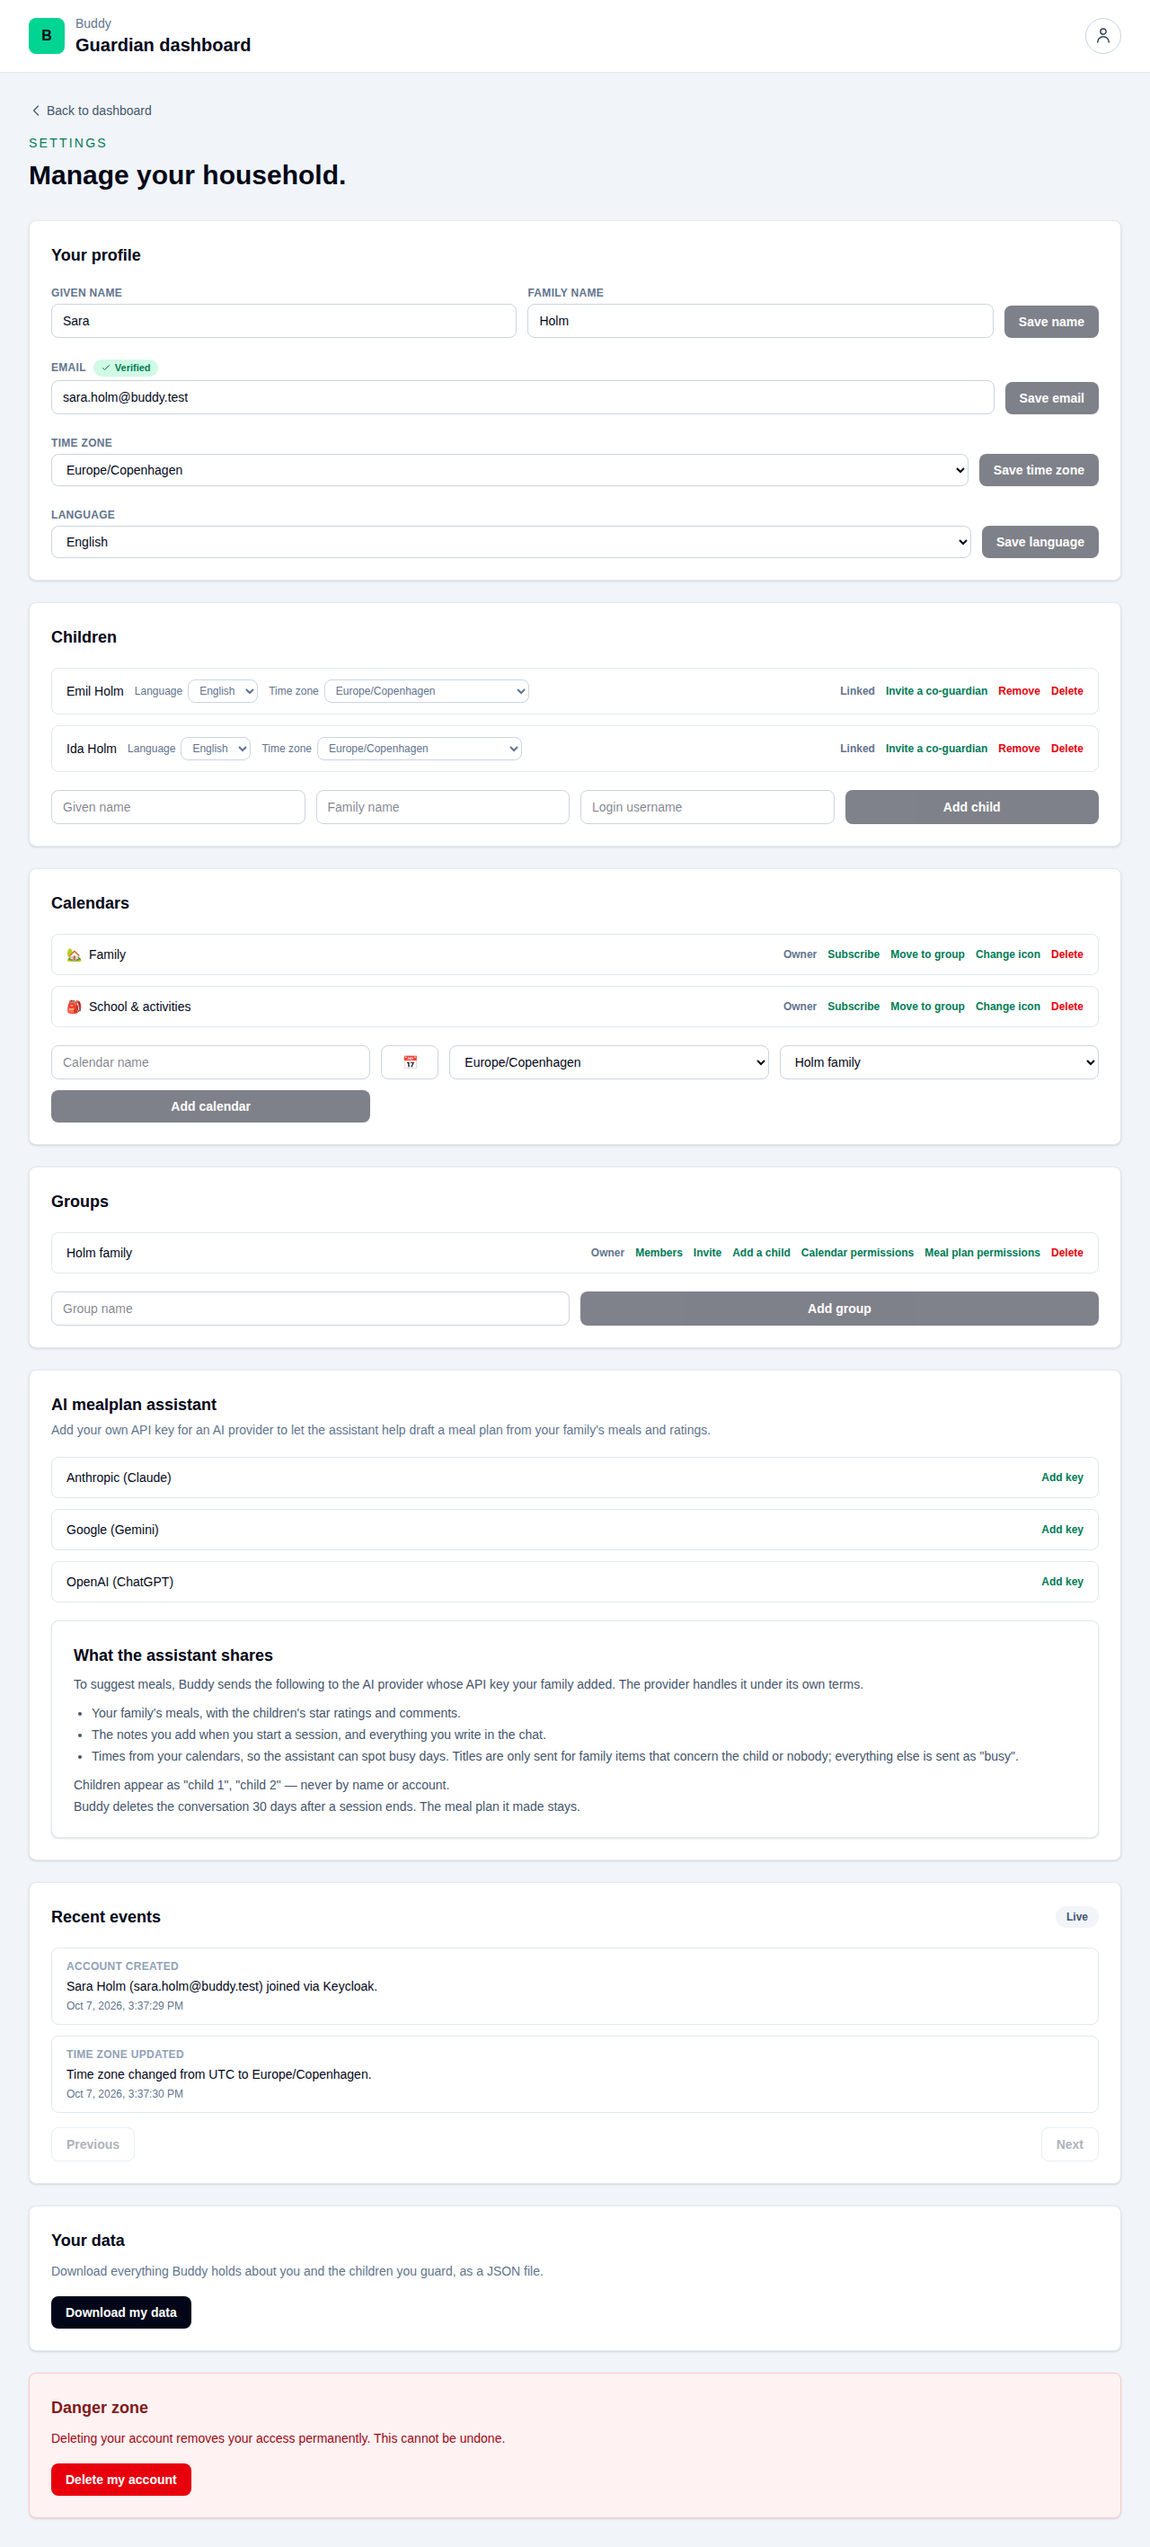
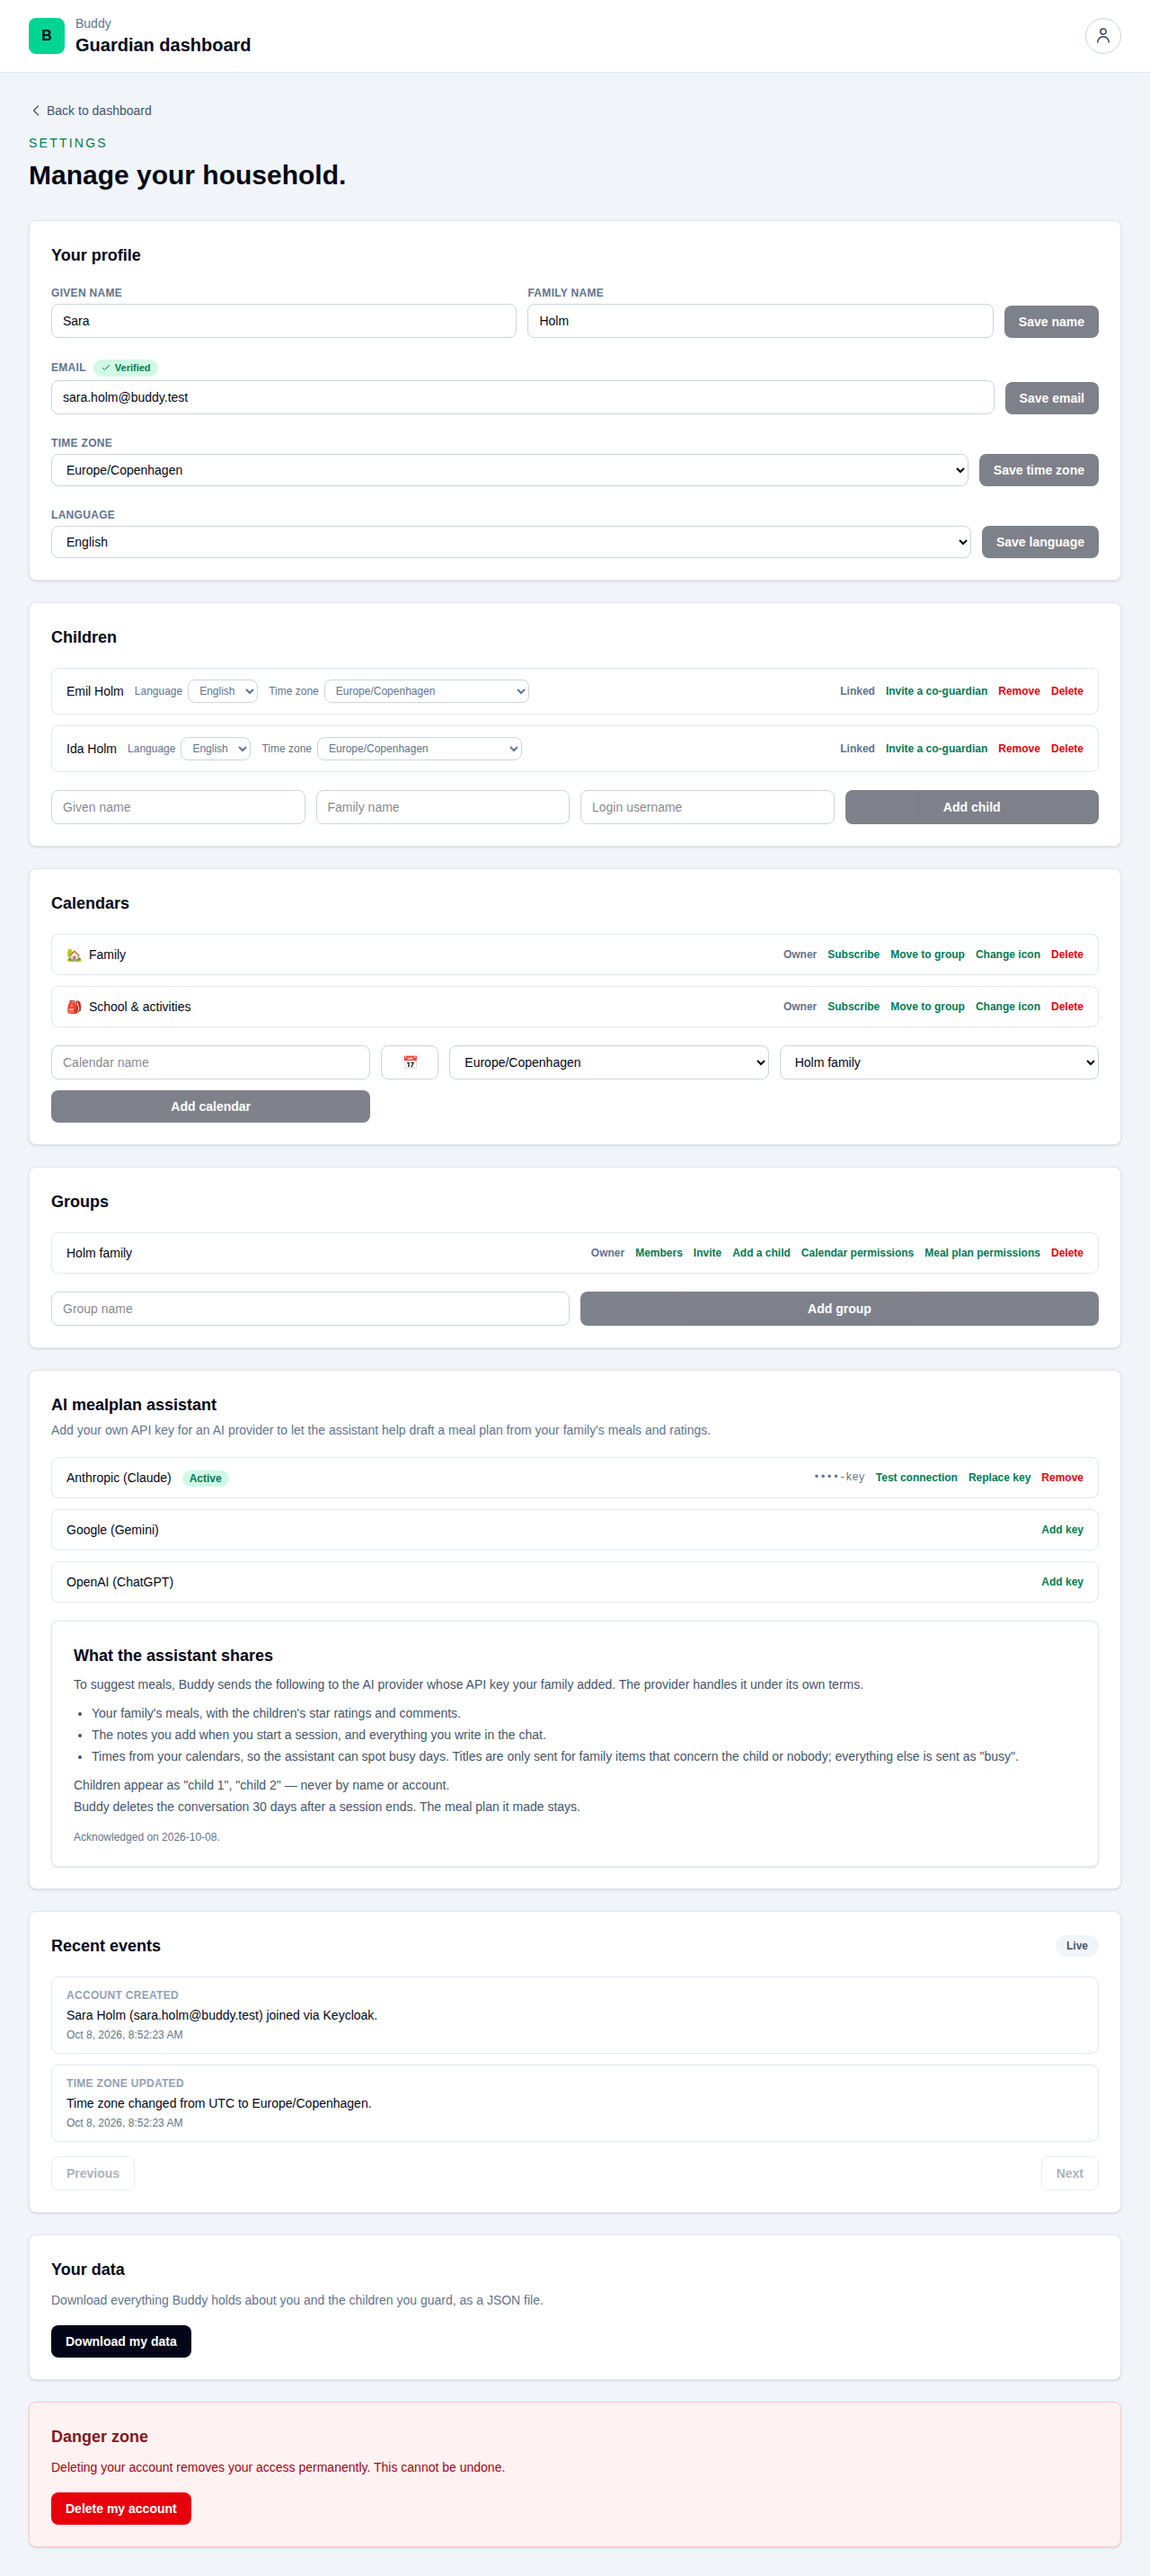
feat(ai-assistant): enhance meal planning options with rated and recently served meals

diff --git a/src/frontend/buddy/screenshots/demo-family.ts b/src/frontend/buddy/screenshots/demo-family.ts
@@ -552,6 +552,14 @@ export async function seedDemoFamily(): Promise<DemoFamily> {
       })),
     });
 
+    // AI assistant: a fake key (storing one never calls the provider; the first key becomes the
+    // active one) and the data-sharing acknowledgement, so the assistant page shows its start form
+    // instead of the "add a key" prompt. Nothing here ever sends a chat message.
+    await api.put(`/mealplans/children/${emil.id}/ai/providers/Anthropic/key`, {
+      apiKey: 'sk-ant-demo-screenshots-not-a-real-key',
+    });
+    await api.put(`/mealplans/children/${emil.id}/ai/data-sharing-acknowledgement`);
+
     // Medicine ------------------------------------------------------------------------------
     const ritalin = await api.post<Named>(`/medicines/children/${emil.id}/schedules`, {
       name: 'Methylphenidate',

diff --git a/src/frontend/buddy/screenshots/pages.ts b/src/frontend/buddy/screenshots/pages.ts
@@ -95,9 +95,11 @@ export const SCREENSHOT_PAGES: readonly ScreenshotPage[] = [
   {
     name: 'guardian-mealplan-ai-assistant',
     title: 'Meal plan AI assistant',
-    description: 'Plan meals with an AI provider of your choice (needs an API key).',
+    description:
+      'Plan meals with an AI provider of your choice (needs an API key), optionally only from rated or recently served meals.',
     as: 'guardian',
     route: '/guardian/mealplan/ai-assistant',
+    waitFor: 'Start a new session',
   },
   {
     name: 'guardian-mealplan-import',

diff --git a/docs/screenshots/README.md b/docs/screenshots/README.md
@@ -66,7 +66,7 @@ The week's meals per slot, picked from the child's meal library.
 
 ## Meal plan AI assistant
 
-Plan meals with an AI provider of your choice (needs an API key).
+Plan meals with an AI provider of your choice (needs an API key), optionally only from rated or recently served meals.
 
 ![Meal plan AI assistant](guardian-mealplan-ai-assistant.png)
 
